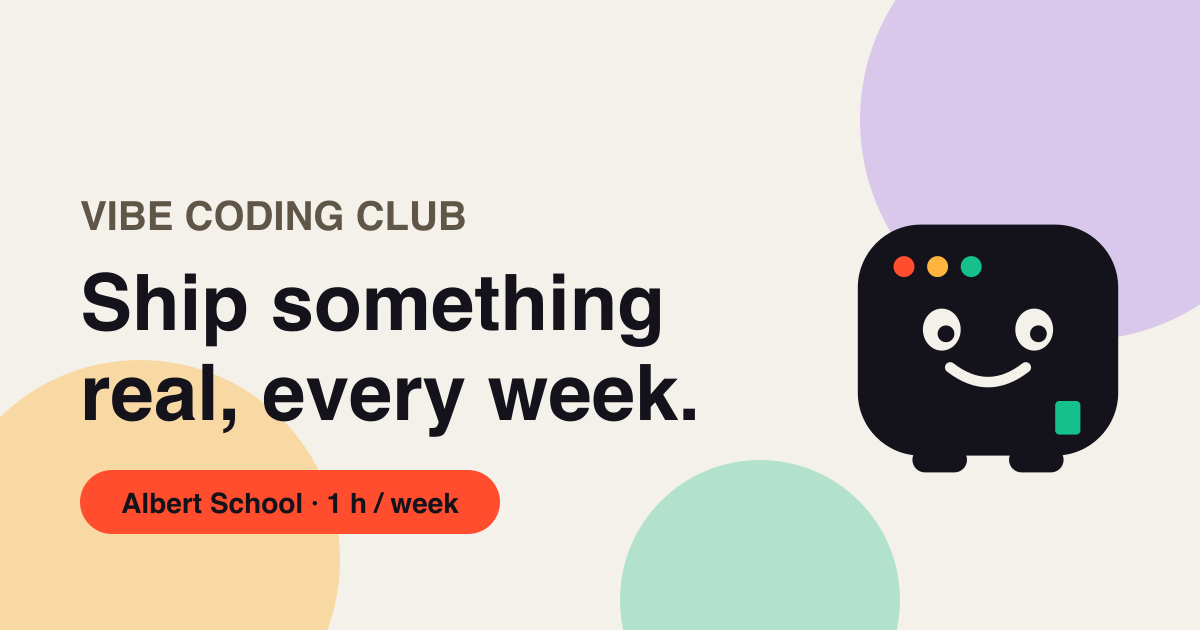
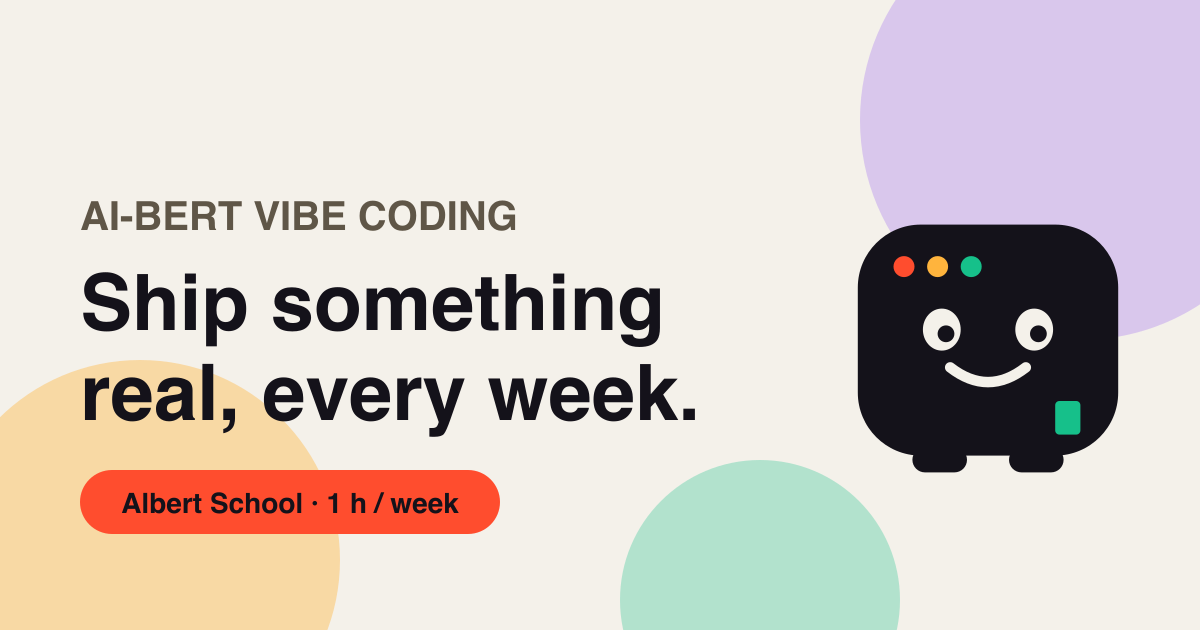
Name the club: AI-bert Vibe Coding
The provisional name is gone from site.ts, the favicon script, the
manifest, the README and the project rules. Favicons and the share image
are regenerated with the new name.

Changed region(s): [[0.0617, 0.3016, 0.4317, 0.3619]]

diff --git a/src/app/globals.css b/src/app/globals.css
@@ -3,7 +3,7 @@
 @tailwind utilities;
 
 /* =====================================================================
-   Identité PROVISOIRE, en attente du nom de l'asso.
+   Identité d'AI-bert Vibe Coding.
    Contraintes actées : pas les couleurs d'Albert School, pas la palette
    Indysigner. Toutes les paires sont validées par scripts/check-contrast.mjs,
    à relancer après chaque retouche.

diff --git a/src/lib/site.ts b/src/lib/site.ts
@@ -3,8 +3,8 @@
  * Tout le reste du site lit ces valeurs.
  */
 export const SITE = {
-  name: "Vibe Coding Club", // PROVISOIRE
-  shortName: "VCC", // PROVISOIRE
+  name: "AI-bert Vibe Coding",
+  shortName: "AI-bert",
   school: "Albert School",
   eyebrow: "Student association at Albert School",
   legalMention:

diff --git a/CLAUDE.md b/CLAUDE.md
@@ -10,9 +10,9 @@
 - **Le site est aussi le support projeté.** Corps de texte jamais sous 17 px,
   code jamais sous 20 px en séance, rien d'important dans le bas de l'écran.
 - **Contenu en anglais**, commentaires de code en français.
-- **Identité provisoire.** Le nom vit dans `src/lib/site.ts`, la palette et la
-  typo dans `src/app/globals.css` et `src/lib/fonts.ts`. Trois fichiers, pas
-  un de plus.
+- **Identité.** L'asso s'appelle AI-bert Vibe Coding. Le nom vit dans
+  `src/lib/site.ts`, la palette et la typo dans `src/app/globals.css` et
+  `src/lib/fonts.ts`. Trois fichiers, pas un de plus.
 - **Interdits** : la palette Indysigner, les couleurs d'Albert School, Inter,
   Roboto, Arial, une grille 12 colonnes symétrique, un aplat de fond uni.
 - Cloudflare Pages uniquement. Jamais Vercel.

diff --git a/README.md b/README.md
@@ -1,7 +1,7 @@
-# Vibe Coding Club — site du cours
+# AI-bert Vibe Coding — site du cours
 
-> Le nom est provisoire. Il se change dans `src/lib/site.ts`, et la peau
-> dans le bloc `:root` de `src/app/globals.css`.
+> Le nom vit dans `src/lib/site.ts`, la peau dans le bloc `:root` de
+> `src/app/globals.css`.
 
 Site de l'association vibecoding d'Albert School. Une heure par semaine,
 douze semaines, trois concours. Le site sert à la fois de support projeté
